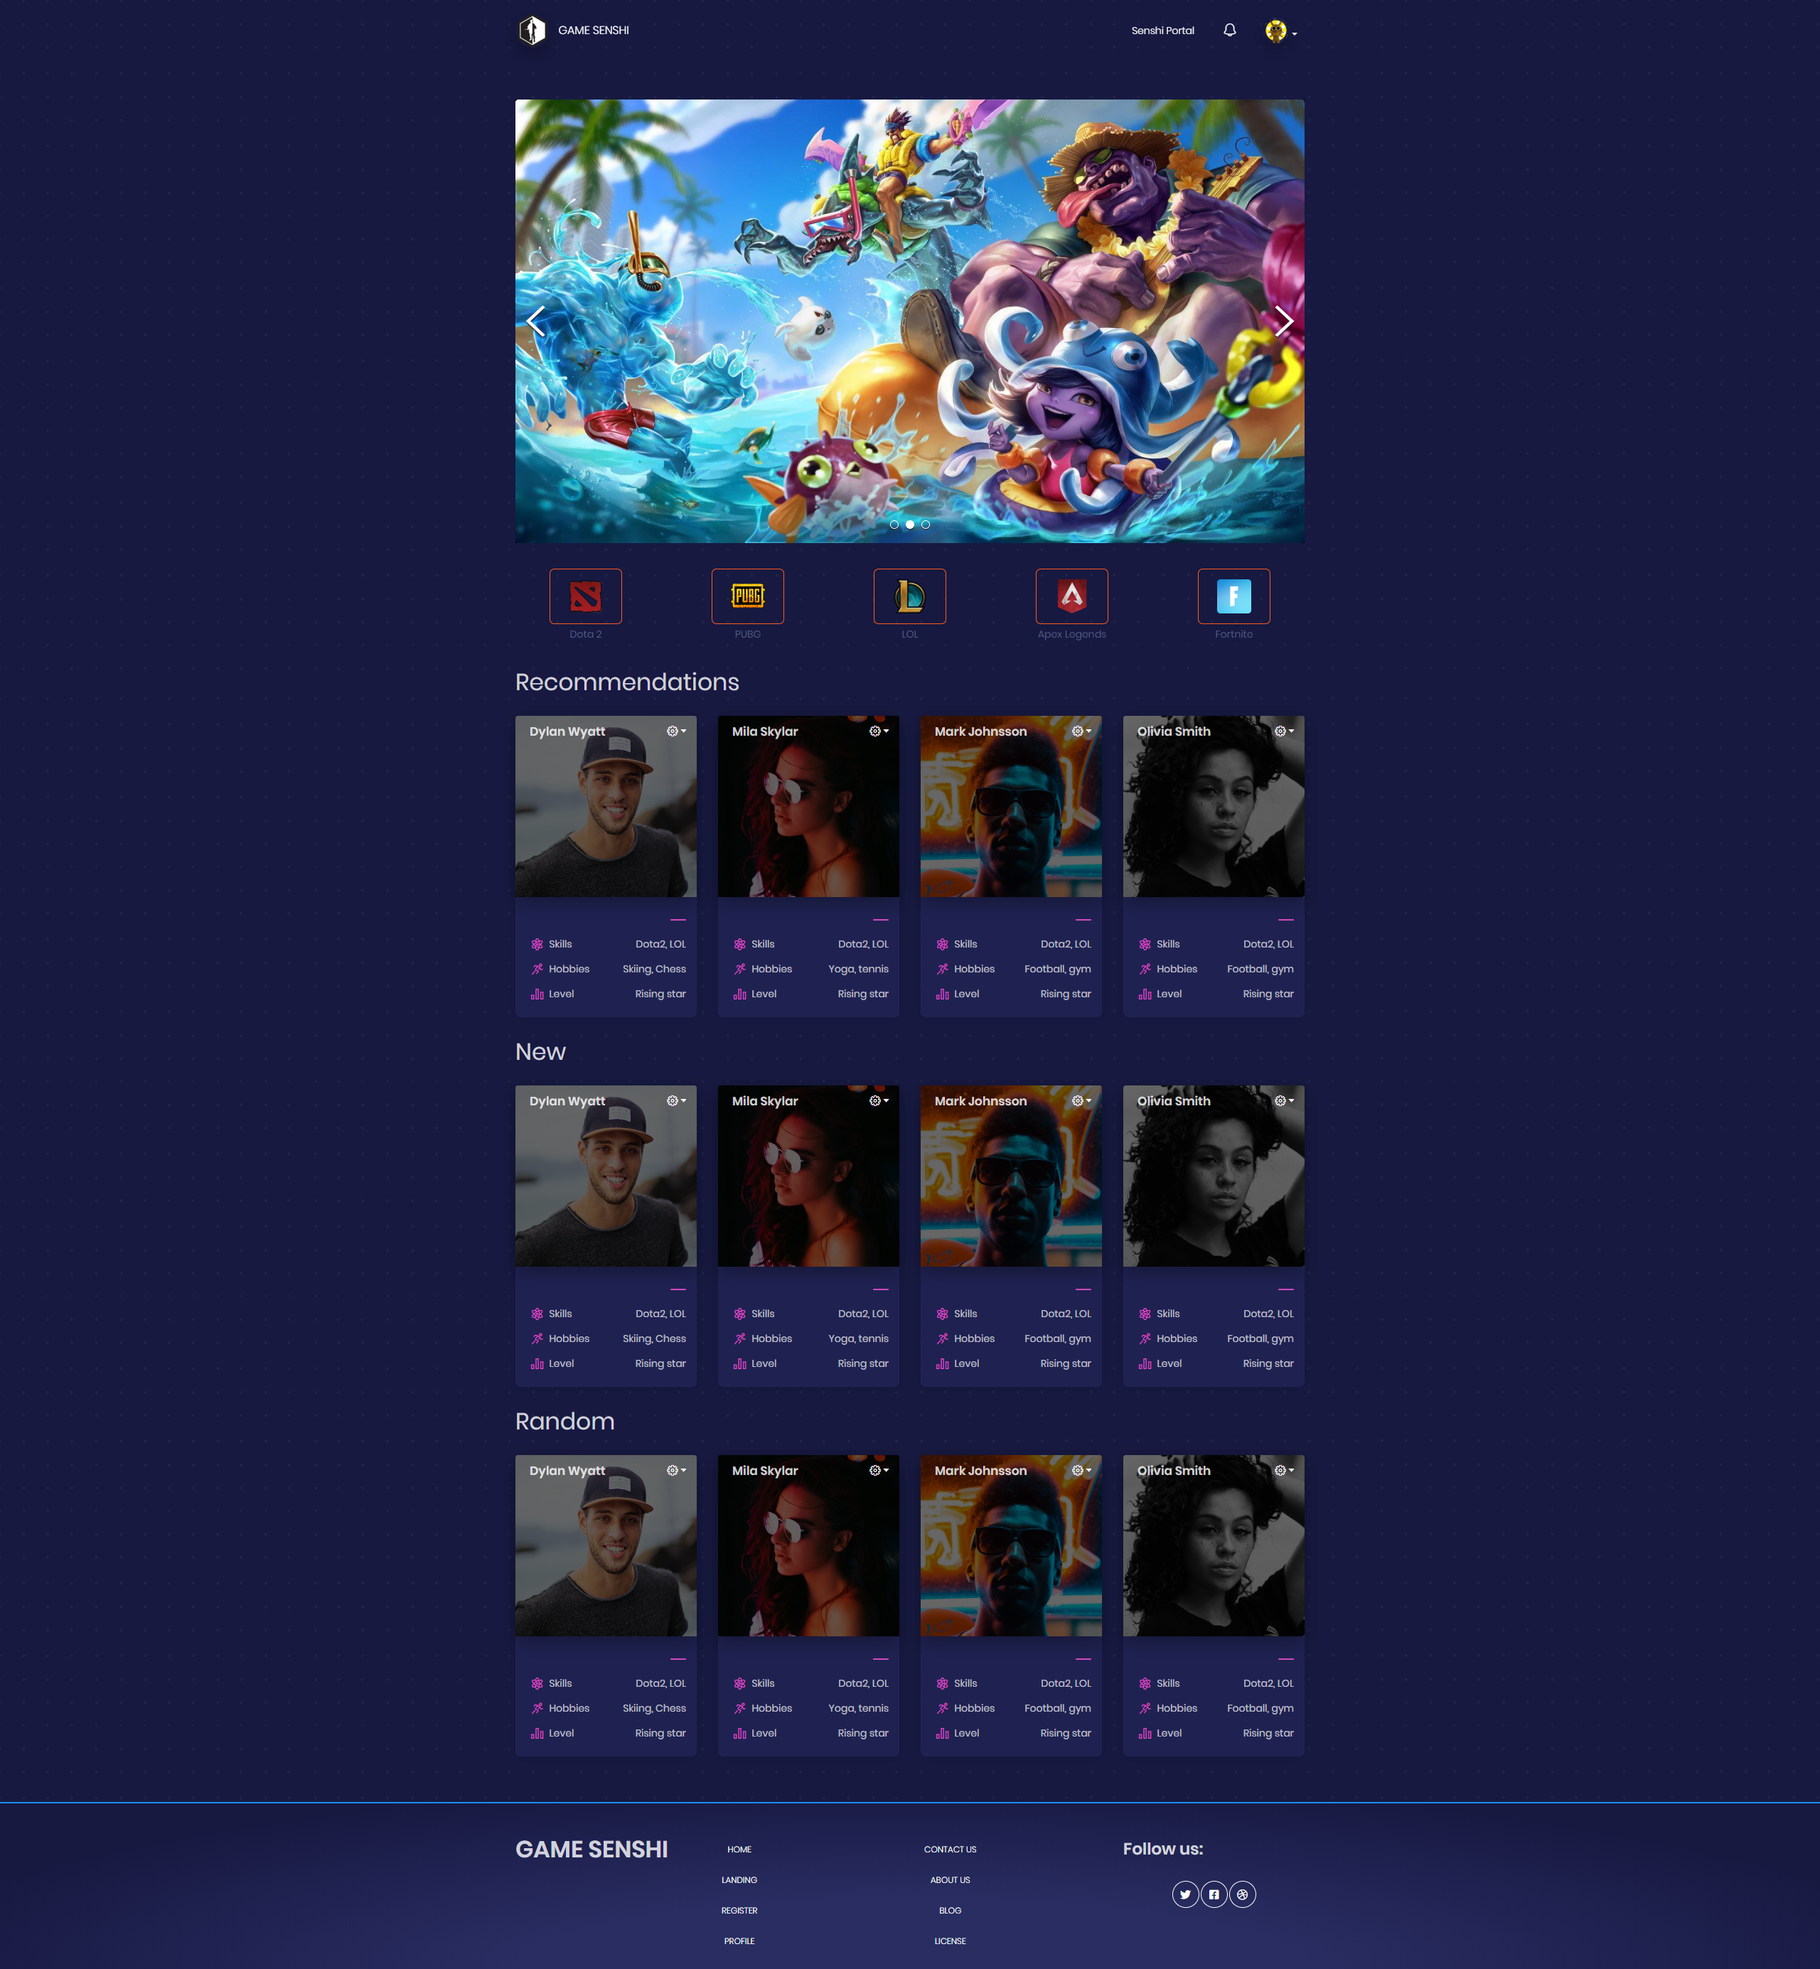
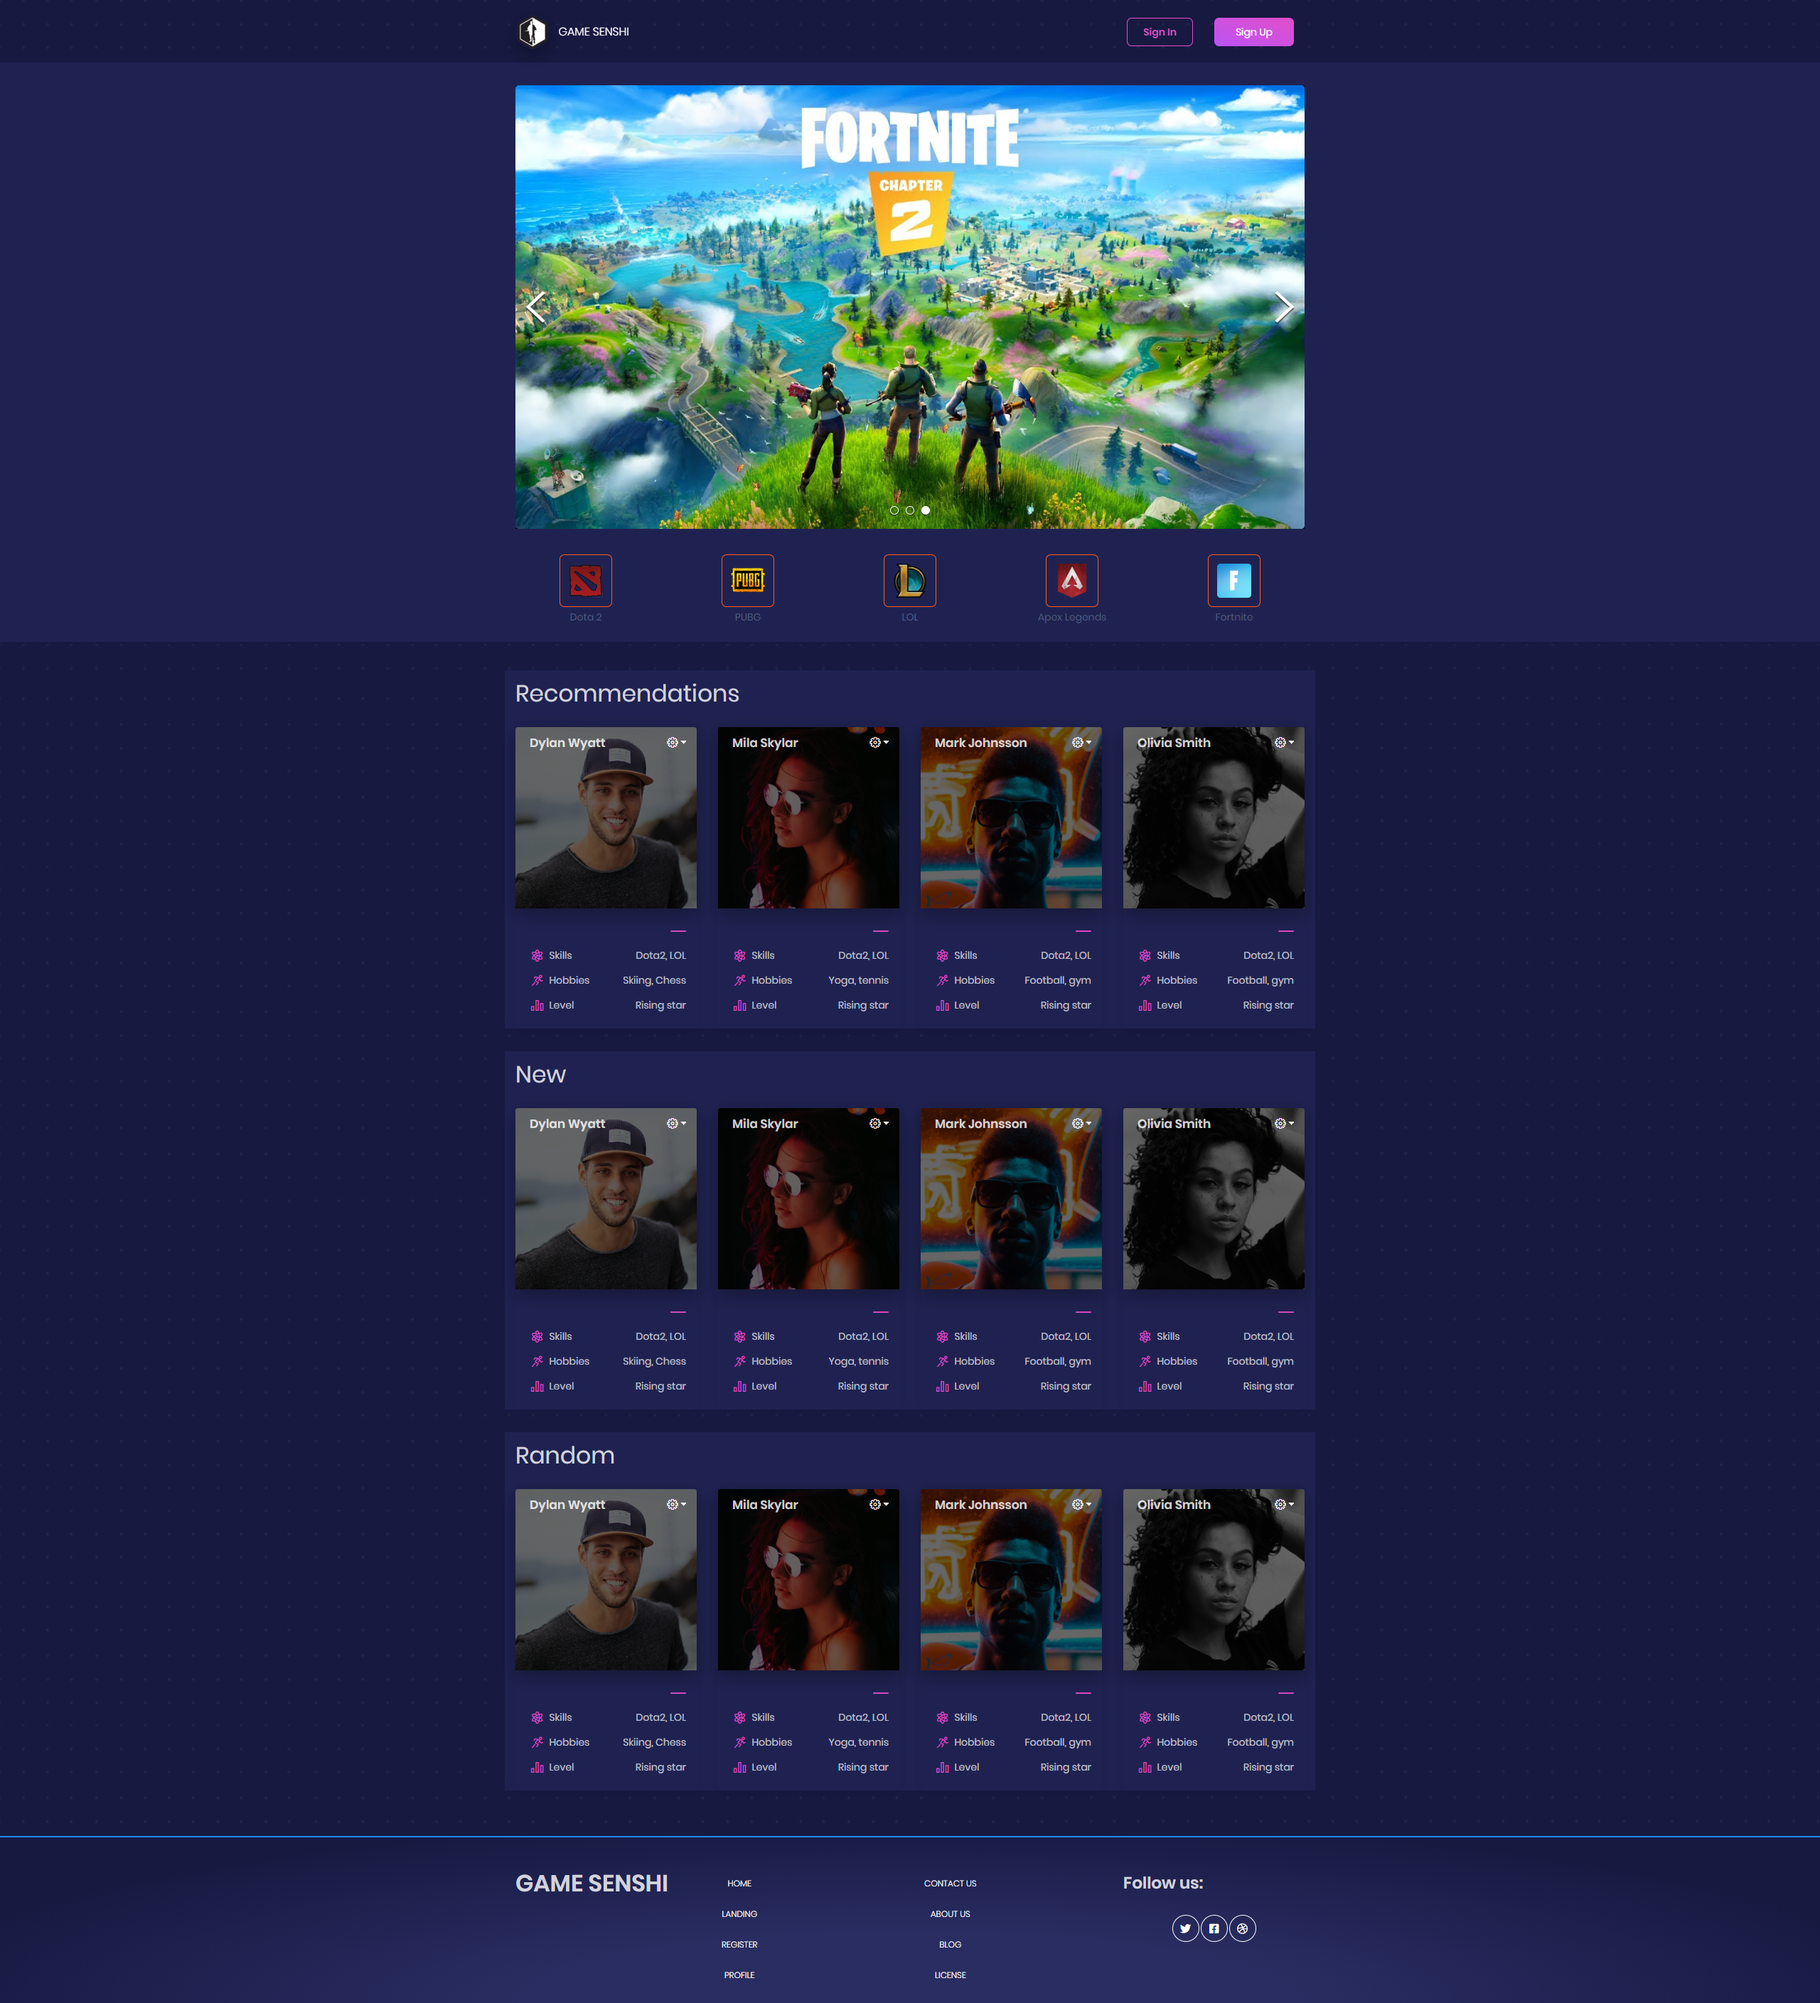
add background color for section, adjust sections, container, title padding and margin

diff --git a/src/componentViews/IndexPage.jsx b/src/componentViews/IndexPage.jsx
@@ -78,8 +78,8 @@ const Cards = () => {
 const IndexPage = () => {
 	return (
 		<WrapperStoreWrapperPropedIndex>
-			<Section>
-				<Container>
+			<Section className='bg-dark-navy'>
+				<Container className='pt-3'>
 					<Row>
 						<Col>
 							<CarouselCommonPropedIndex />
@@ -87,16 +87,16 @@ const IndexPage = () => {
 					</Row>
 				</Container>
 			</Section>
-			<Section>
+			<Section className='bg-dark-navy mb-4'>
 				<Container>
 					<ButtonsIconImagePropedIndex />
 				</Container>
 			</Section>
 			<Section>
-				<Container>
+				<Container className='bg-dark-navy'>
 					<Row>
 						<Col>
-							<h1 className='mb-0'>Recommendations</h1>
+							<h1 className='mb-0 mt-3'>Recommendations</h1>
 						</Col>
 					</Row>
 					<Row>
@@ -105,10 +105,10 @@ const IndexPage = () => {
 				</Container>
 			</Section>
 			<Section>
-				<Container>
+				<Container className='bg-dark-navy'>
 					<Row>
 						<Col>
-							<h1 className='mb-0'>New</h1>
+							<h1 className='mb-0 mt-3'>New</h1>
 						</Col>
 					</Row>
 					<Row>
@@ -117,10 +117,10 @@ const IndexPage = () => {
 				</Container>
 			</Section>
 			<Section>
-				<Container>
+				<Container className='bg-dark-navy'>
 					<Row>
 						<Col>
-							<h1 className='mb-0'>Random</h1>
+							<h1 className='mb-0 mt-3'>Random</h1>
 						</Col>
 					</Row>
 					<Row>
